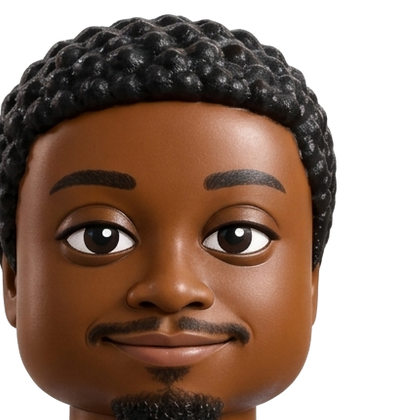
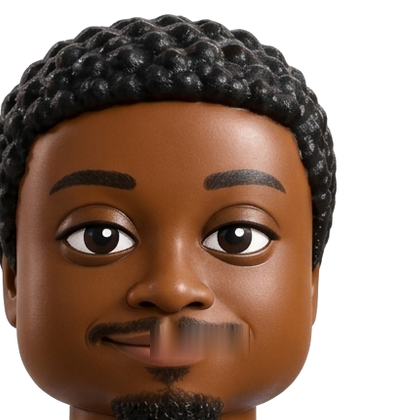
fix(brick_dev): clean static mouth from base head textures to eliminate double-mouth viseme overlay and expose dynamic mascot discovery APIs

Changed region(s): [[0.36, 0.7738, 0.63, 0.8667]]

diff --git a/src/videomascot/assets/starter_brick_dev.py b/src/videomascot/assets/starter_brick_dev.py
@@ -81,9 +81,28 @@ def create_starter_brick_dev(output_dir: Path) -> Path:
         src_point = Image.open(src_point_path).convert("RGBA").resize((1000, 1000), Image.LANCZOS) if src_point_path else src_rest
 
         # 1. Head Attachments: 3D sculpted heads matching each pose's facial expression
-        head_rest = src_rest.crop((300, 20, 700, 440))
-        head_wave = src_wave.crop((300, 20, 700, 440))
-        head_point = src_point.crop((300, 20, 700, 440))
+        def clean_head_mouth(head_img: Image.Image) -> Image.Image:
+            """Cleans the static smile from the base head so moving viseme decals don't collide or double-overlay."""
+            arr = np.array(head_img)
+            # Interpolate skin gradient between mustache (y=325) and goatee (y=358)
+            top_skin = arr[325, 150:250].astype(float)
+            bot_skin = arr[358, 150:250].astype(float)
+            for y in range(326, 358):
+                alpha = (y - 326) / 32.0
+                arr[y, 150:250] = (1.0 - alpha) * top_skin + alpha * bot_skin
+            res = Image.fromarray(arr)
+            # Soften blending
+            mask = Image.new("L", head_img.size, 0)
+            d = ImageDraw.Draw(mask)
+            d.ellipse([155, 326, 245, 356], fill=255)
+            from PIL import ImageFilter
+            blurred = res.filter(ImageFilter.GaussianBlur(1.5))
+            res.paste(blurred, mask=mask)
+            return res
+
+        head_rest = clean_head_mouth(src_rest.crop((300, 20, 700, 440)))
+        head_wave = clean_head_mouth(src_wave.crop((300, 20, 700, 440)))
+        head_point = clean_head_mouth(src_point.crop((300, 20, 700, 440)))
 
         head_rest.save(bundle_dir / "head" / "head_base.png")
         head_rest.save(bundle_dir / "head" / "head_rest.png")

diff --git a/src/videomascot/core/registry.py b/src/videomascot/core/registry.py
@@ -102,6 +102,14 @@ class MascotRegistry:
         return result
 
 
+def get_bundled_assets_dir() -> Optional[Path]:
+    """Resolves the built-in bundled mascot assets directory in the VideoMascot repository/package."""
+    candidate = (Path(__file__).resolve().parent.parent.parent.parent / "assets" / "mascots").resolve()
+    if candidate.is_dir():
+        return candidate
+    return None
+
+
 _DEFAULT_REGISTRY: Optional[MascotRegistry] = None
 
 
@@ -110,8 +118,23 @@ def get_default_registry() -> MascotRegistry:
     global _DEFAULT_REGISTRY
     if _DEFAULT_REGISTRY is None:
         _DEFAULT_REGISTRY = MascotRegistry()
-        # Auto-discover default mascots root if present
-        default_assets = Path("assets/mascots")
-        if default_assets.exists():
-            _DEFAULT_REGISTRY.discover_from_directory(default_assets)
+        # 1. Auto-discover default local mascots root if present in current working directory
+        cwd_assets = Path("assets/mascots").resolve()
+        if cwd_assets.is_dir():
+            _DEFAULT_REGISTRY.discover_from_directory(cwd_assets)
+
+        # 2. Auto-discover bundled package/repository mascots root
+        pkg_assets = get_bundled_assets_dir()
+        if pkg_assets and pkg_assets != cwd_assets and pkg_assets.is_dir():
+            _DEFAULT_REGISTRY.discover_from_directory(pkg_assets)
     return _DEFAULT_REGISTRY
+
+
+def list_available_mascots() -> List[MascotMetadata]:
+    """Returns metadata for all discovered mascot characters in the default registry."""
+    return get_default_registry().list_available_mascots()
+
+
+def list_character_ids() -> List[str]:
+    """Returns list of all registered mascot character IDs in the default registry."""
+    return get_default_registry().list_character_ids()

diff --git a/src/videomascot/__init__.py b/src/videomascot/__init__.py
@@ -1,7 +1,16 @@
 """VideoMascot - Modular, scalable AI-ready layered puppet and mascot animation engine."""
 
 from videomascot.core.math_2d import Vector2D, Transform2D, ease_in_out_quad, ease_out_back, spring_lerp
-from videomascot.core.registry import MascotRegistry, get_default_registry, MascotMetadata, MascotNotFoundError, MascotBundleValidationError
+from videomascot.core.registry import (
+    MascotRegistry,
+    get_default_registry,
+    get_bundled_assets_dir,
+    list_available_mascots,
+    list_character_ids,
+    MascotMetadata,
+    MascotNotFoundError,
+    MascotBundleValidationError,
+)
 from videomascot.core.bones import Bone, BoneHierarchy, solve_2joint_ik, solve_pointing_fk, solve_aim_to_target
 from videomascot.core.slots import Slot
 from videomascot.models.manifest import MascotManifest, BoneConfig, SlotConfig, PhysicsConfig, JointConstraintConfig
@@ -36,6 +45,9 @@ __all__ = [
     "PoseState",
     "MascotRegistry",
     "get_default_registry",
+    "get_bundled_assets_dir",
+    "list_available_mascots",
+    "list_character_ids",
     "MascotMetadata",
     "MascotNotFoundError",
     "MascotBundleValidationError",

diff --git a/tests/test_registry.py b/tests/test_registry.py
@@ -120,3 +120,31 @@ def test_mascot_engine_for_character_integration(tmp_path: Path):
     engine = MascotEngine.for_character("mini_bot", registry=registry)
     assert engine.manifest.id == "mini_bot"
     assert engine.canvas_size == (500, 500)
+
+
+def test_bundled_assets_dir_discovery():
+    from videomascot.core.registry import get_bundled_assets_dir, get_default_registry
+    b_dir = get_bundled_assets_dir()
+    assert b_dir is not None
+    assert b_dir.is_dir()
+    assert (b_dir / "brick_dev").is_dir()
+
+    reg = get_default_registry()
+    char_ids = reg.list_character_ids()
+    assert "brick_dev" in char_ids
+
+
+def test_list_convenience_functions():
+    import videomascot
+    char_ids = videomascot.list_character_ids()
+    assert isinstance(char_ids, list)
+    assert "brick_dev" in char_ids
+    assert "nexus_bot" in char_ids
+    assert "chibi_tech_guide" in char_ids
+
+    mascots = videomascot.list_available_mascots()
+    assert len(mascots) >= 3
+    names = {m.name for m in mascots}
+    assert "Brick Dev" in names
+    assert "Nexus Bot" in names
+    assert "Chibi Tech Guide" in names
